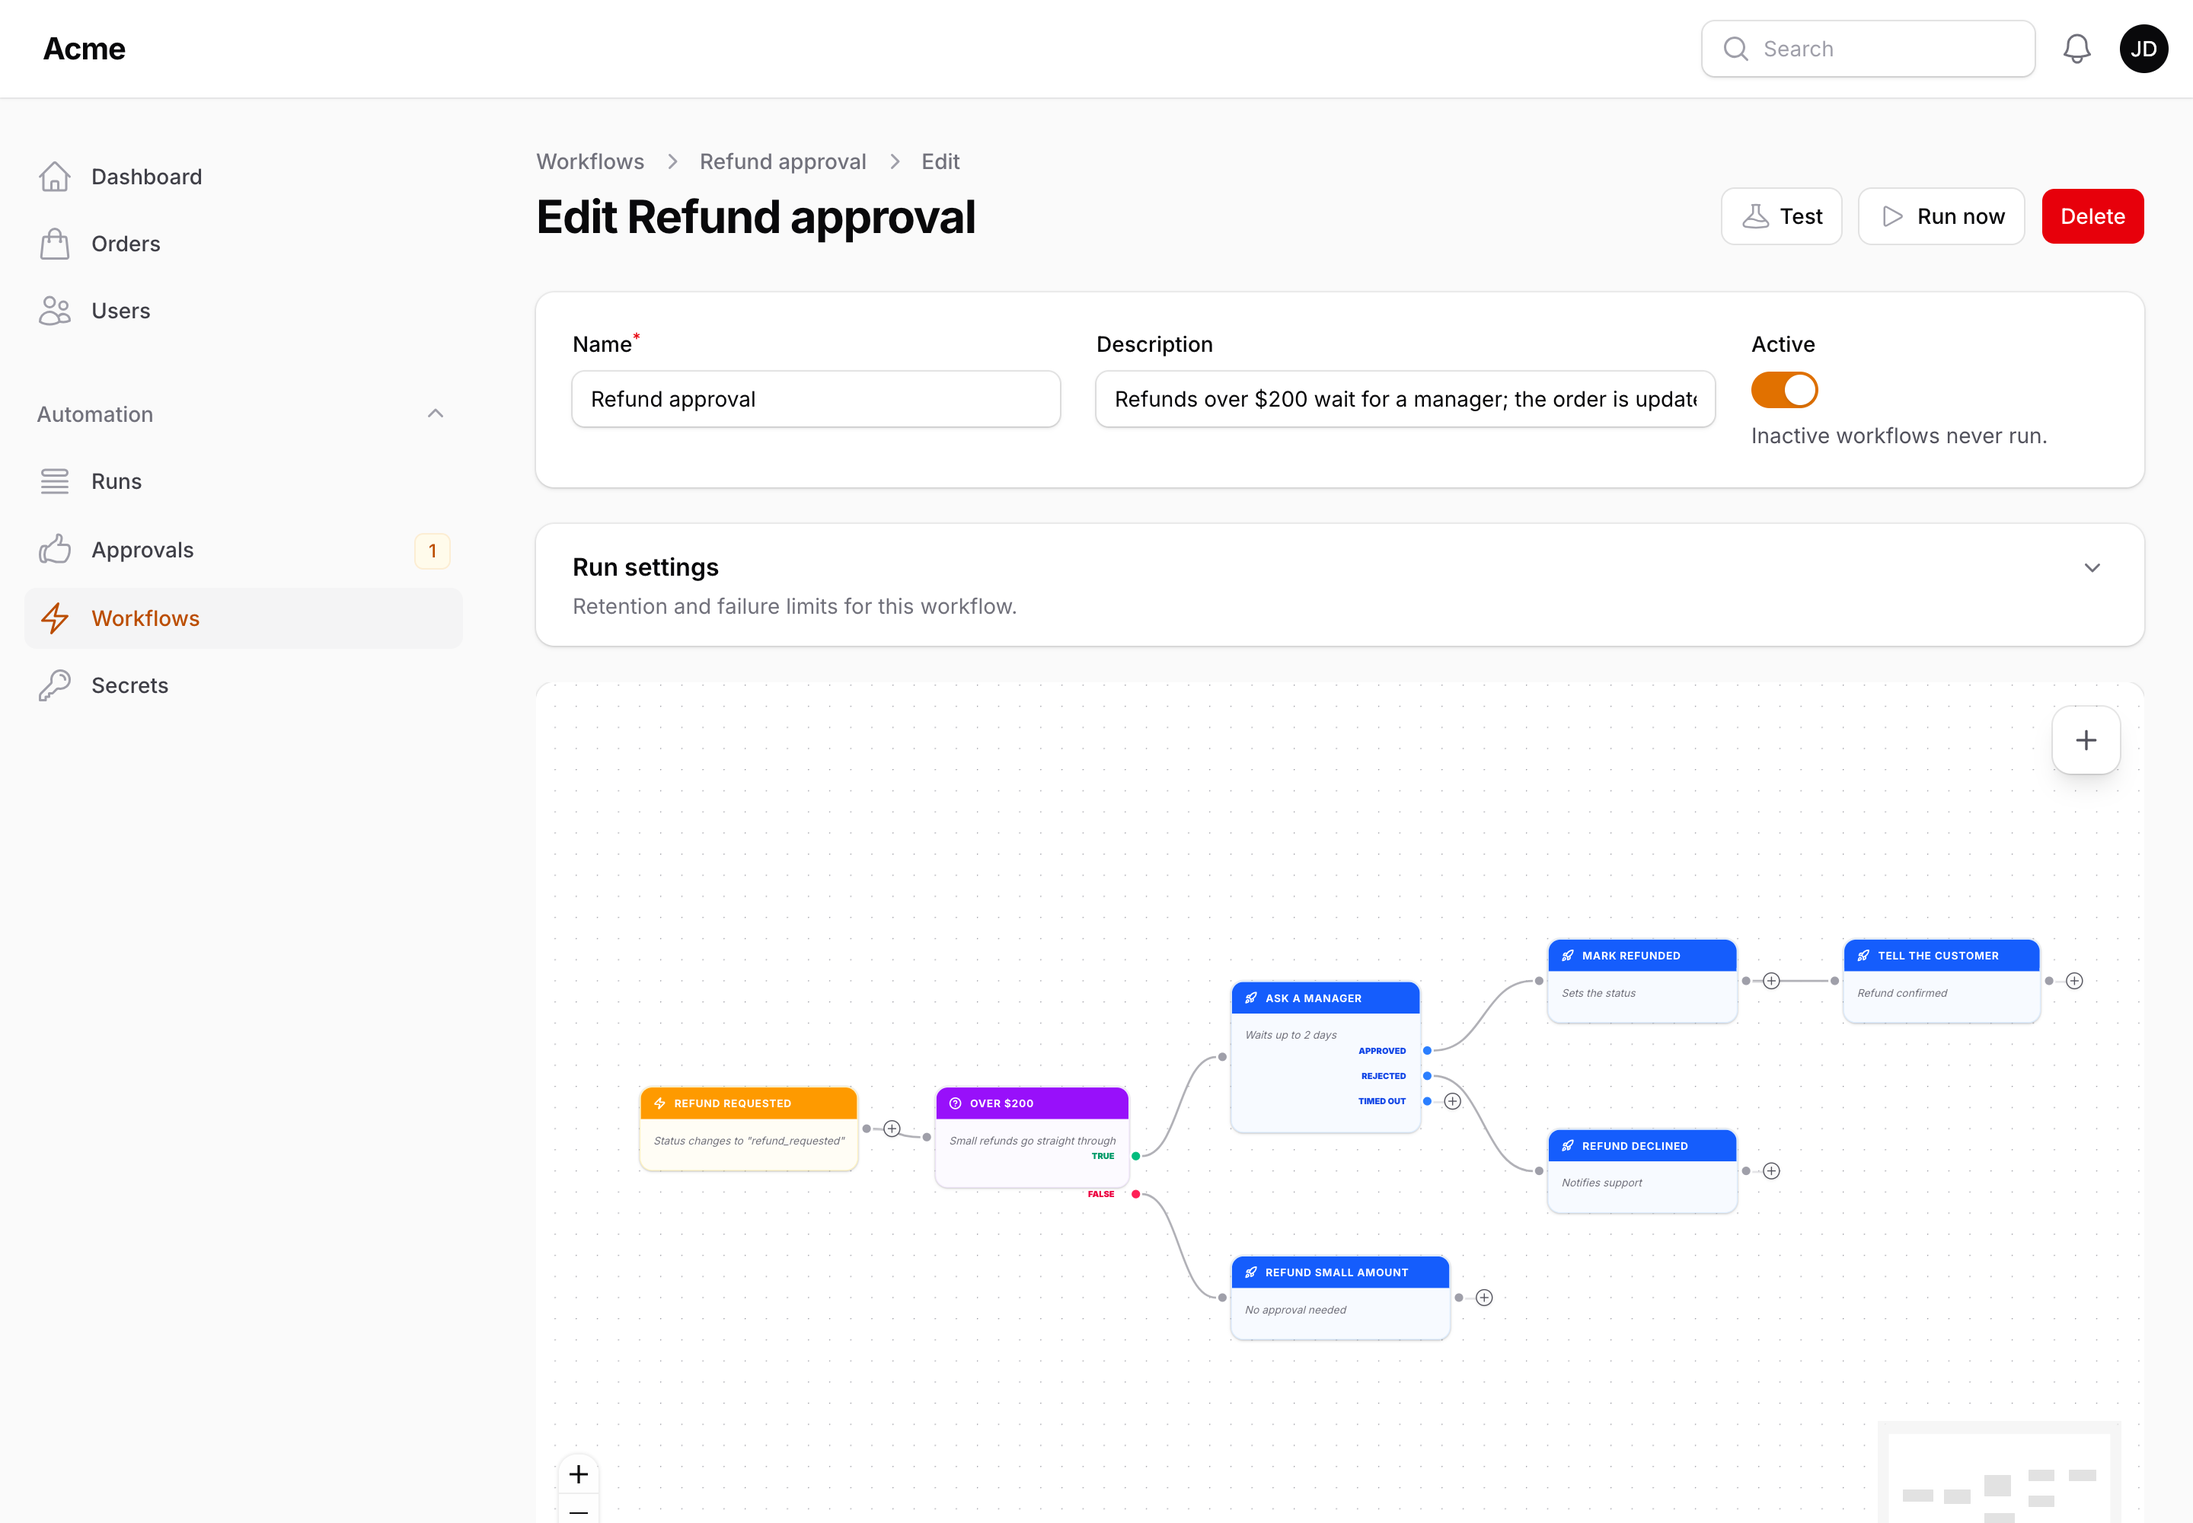
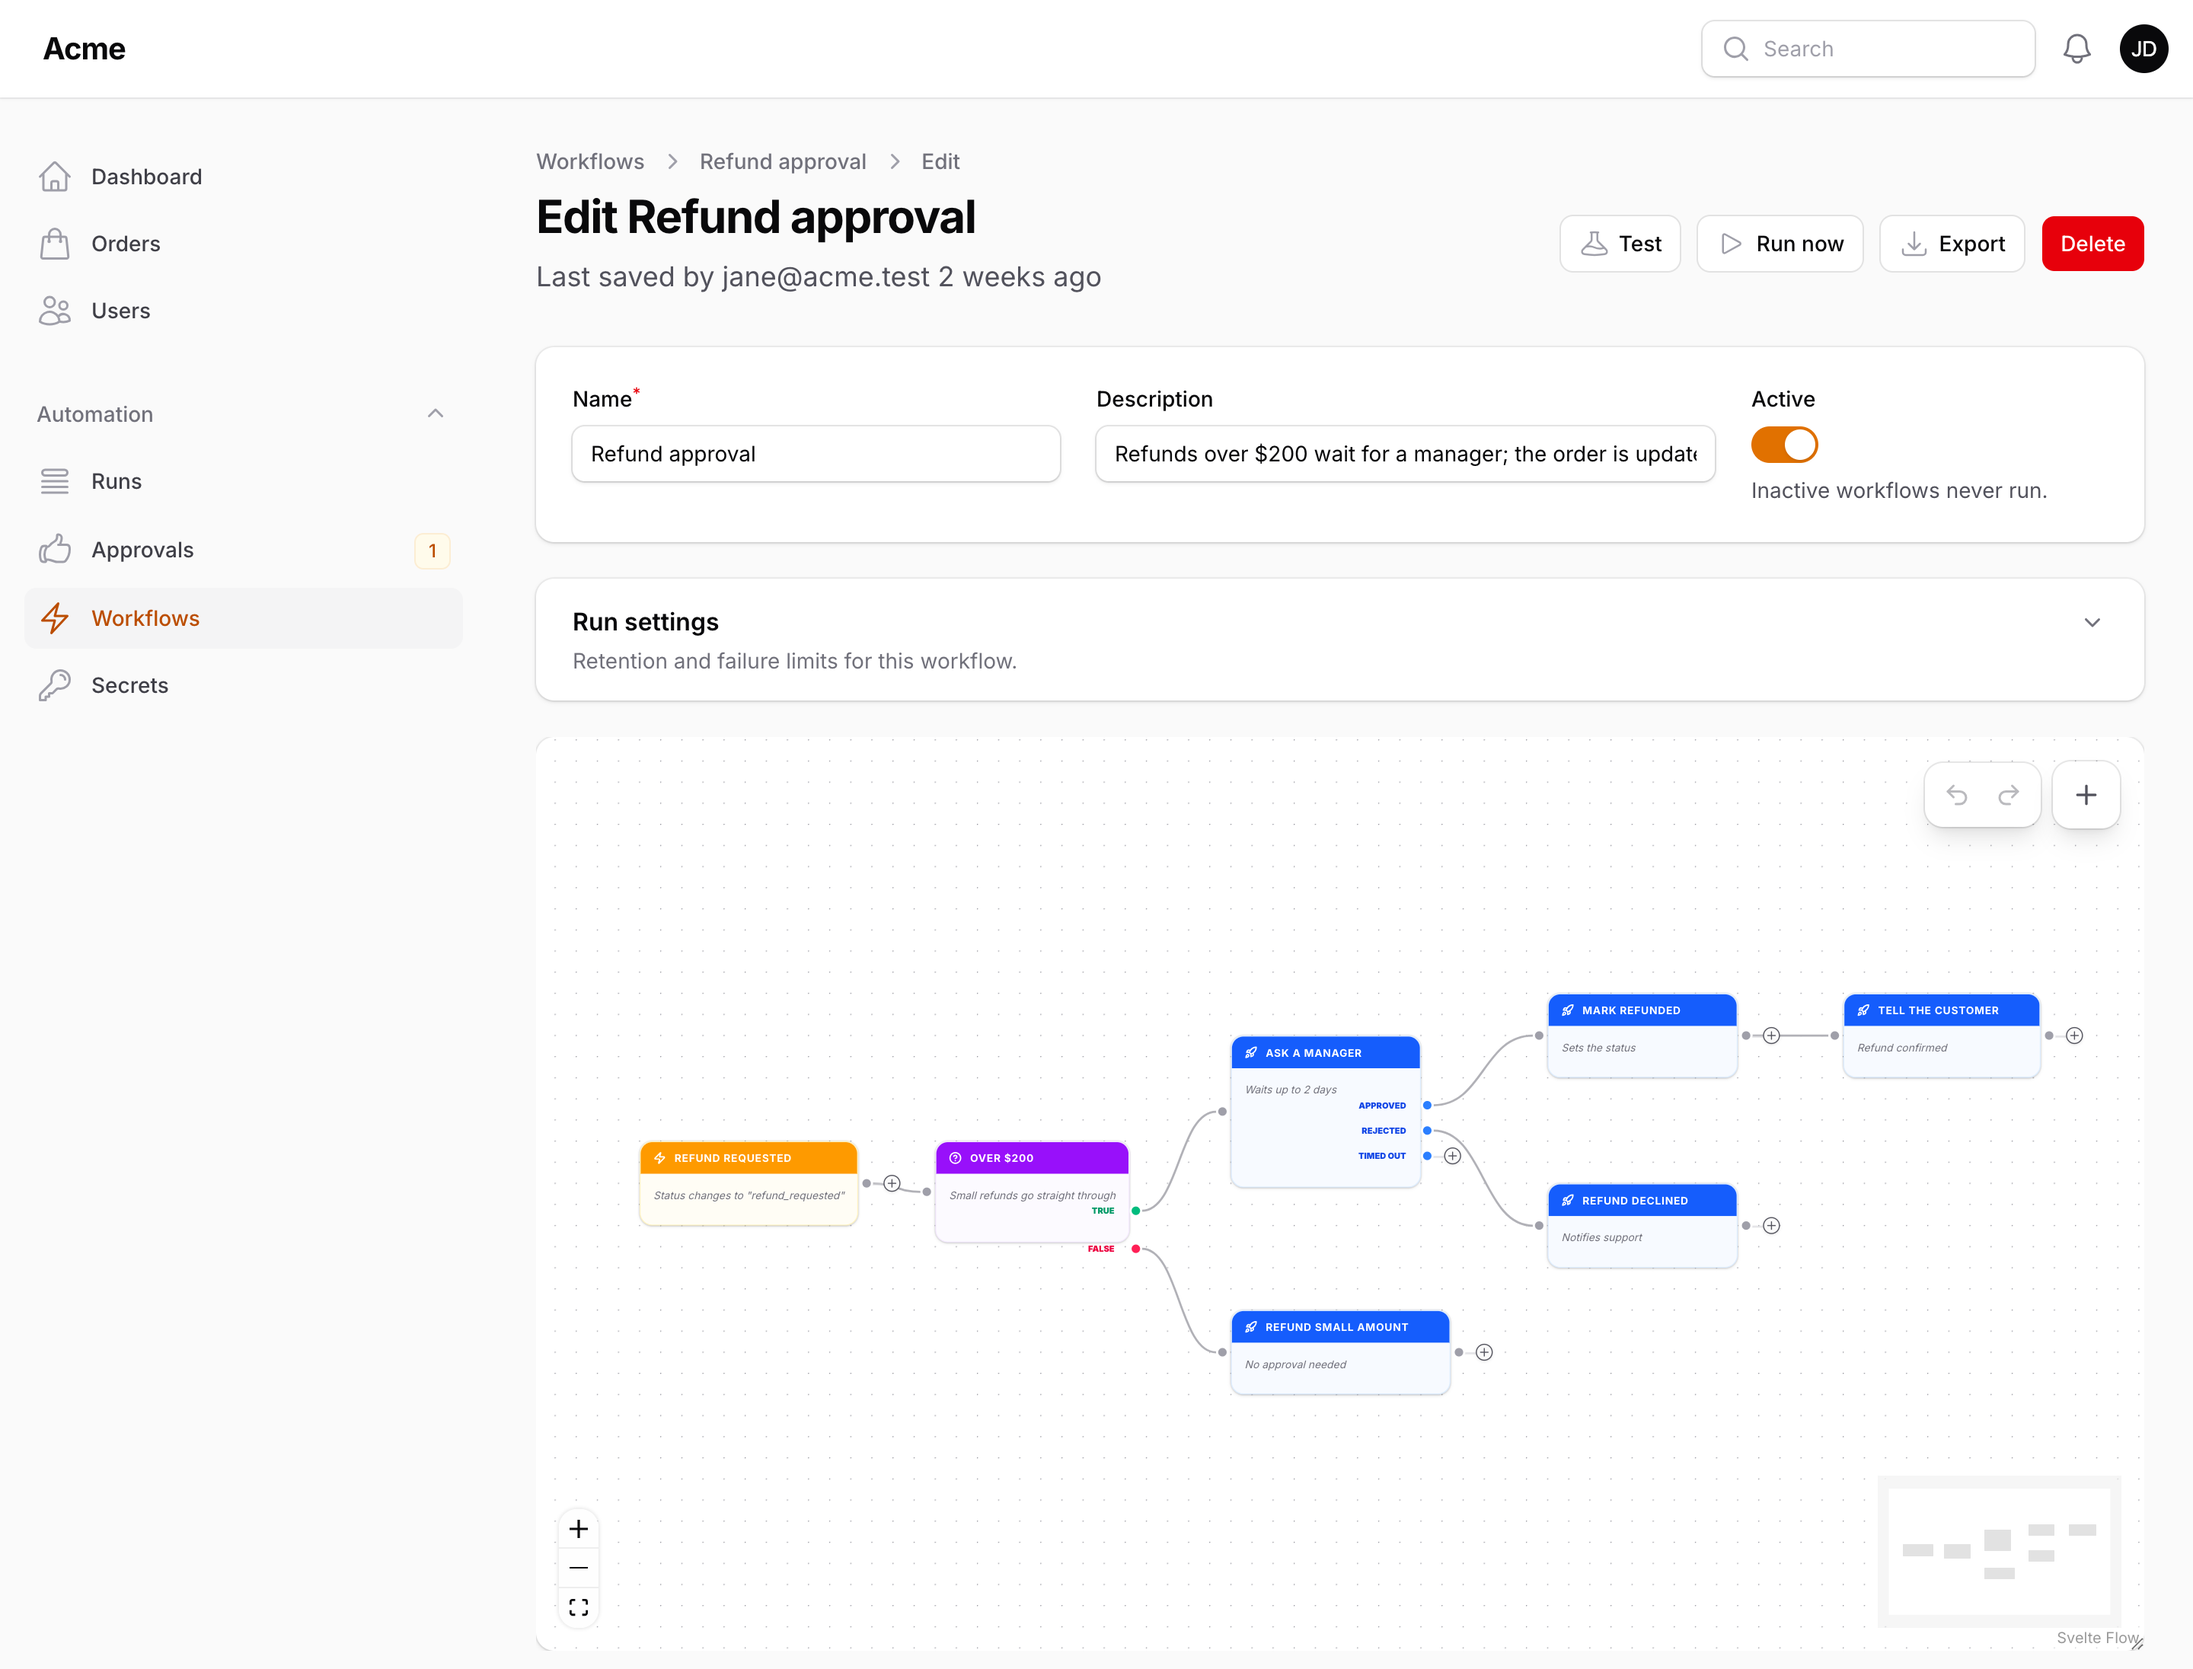
docs: screenshots for templates, the context menu, problem badges, Send to Zapier and Slowest workflows; upgrading note
Recaptured every screenshot from the demo after 1.2's changes (the Last saved
by line, undo/redo buttons, Export, the Runs chart) and added five new ones,
embedded on the pages that describe the features. Installation gets an
Upgrading note: publish the migrations again and migrate, since the audit
columns come as a guarded add_* migration.

diff --git a/docs/building-workflows.md b/docs/building-workflows.md
@@ -45,6 +45,8 @@ The slide-over is a Filament form:
 
 Click a node to select it; **Shift + drag** on the background draws a selection box, **Cmd / Ctrl + click** adds a node to the selection, and **Cmd / Ctrl + A** selects everything. Right-click a node for **Settings** (a single node), **Copy**, **Duplicate** and **Delete**; when the node is part of a selection, the menu acts on the whole selection and says so ("Delete 3 nodes"). Right-click the background for **Add node**, **Paste** and **Select all**. The menu can be driven from the keyboard: **Shift + F10** or the Menu key opens it for the selected node, the arrow keys move, **Enter** activates, **Escape** closes.
 
+![The right-click menu on a node: Settings, Copy, Duplicate, Delete](https://raw.githubusercontent.com/packstub/filament-flow/main/docs/images/context-menu.png)
+
 A duplicate keeps the label, description and settings, is placed slightly offset from the original, and keeps the edges between the duplicated nodes; nothing connects it to the rest of the graph. Copy and paste (**Cmd / Ctrl + C**, **Cmd / Ctrl + V**) do the same through a clipboard that lives in the page, so a selection can be pasted several times; **Cmd / Ctrl + D** duplicates the selection in one step.
 
 ## Undo and redo
@@ -58,6 +60,8 @@ The canvas is a form field; the usual **Save** (or **Create**) button of the pag
 Only active workflows run. New workflows start inactive, and a copy made with the table's **Replicate** action is inactive too, so you can finish a draft safely before switching it on. A copy gets its own webhook tokens, so it never answers to the original's URL.
 
 Saving an **active** workflow checks the definition first and refuses it with a message per problem: no trigger node, a node nothing leads to, or a required setting left empty (a node dropped on the canvas whose settings were never opened). The nodes concerned get a red badge on the canvas; hover it for the messages. The badge disappears when the node is edited or connected, and every badge clears when the next save passes. Inactive drafts are only checked for nodes whose class is no longer registered.
+
+![A refused save: the trigger without a model carries a red badge and the message sits under the canvas](https://raw.githubusercontent.com/packstub/filament-flow/main/docs/images/canvas-problems.png)
 
 When a workflow is saved, its trigger nodes are mirrored into the `flow_workflow_triggers` table. That is how the dispatcher finds candidate workflows for an incoming event with one indexed query — you never edit that table yourself.
 

diff --git a/docs/runs.md b/docs/runs.md
@@ -111,6 +111,8 @@ Besides the Runs tab under each workflow, the **Runs** page (next to Workflows i
 
 Above the table: four stats (runs today, failed today, runs waiting, the 7-day success rate) and a **Runs per day** chart of succeeded and failed runs over the last 7, 14 or 30 days. Below it, **Slowest workflows** lists the five workflows whose runs took longest in the last 7 days, with the run count, the average duration (the sum of a run's step timings) and the failure rate. Test runs are left out of all of them, and in a panel with tenancy they cover the current tenant's runs. The widgets are `Packstub\Flow\Filament\Widgets\RunsOverview`, `RunsChart` and `SlowestWorkflows`; they can be placed on a dashboard like any Filament widget, and a subclass of the page can override `getHeaderWidgets()` / `getFooterWidgets()` to change the set.
 
+![The Slowest workflows widget under the Runs table](https://raw.githubusercontent.com/packstub/filament-flow/main/docs/images/runs-slowest.png)
+
 Steps are stored one row per step in the `flow_workflow_steps` table (`WorkflowStep` model; `$run->steps` returns them as arrays, `$run->steps()` as the relationship) rather than in a JSON column, so a run with hundreds of steps costs one insert per step and the Runs page can count and filter them.
 
 ## Versions

diff --git a/docs/installation.md b/docs/installation.md
@@ -27,6 +27,17 @@ The migration creates seven tables: `flow_workflows`, `flow_workflow_triggers`, 
 > [!NOTE]
 > The table names come from `tables` in the config file. If you want different names, change them **before** migrating — see [Configuration](configuration.md#tables-and-models).
 
+### Upgrading
+
+A new minor may add columns; it never renames or drops one. The additions ship as their own guarded migrations, so an existing install publishes and runs whatever is new:
+
+```bash
+php artisan vendor:publish --tag="packstub-flow-migrations"
+php artisan migrate
+```
+
+Only files you do not have yet are copied. 1.2 adds `add_audit_columns_to_flow_workflows` (`created_by` / `updated_by`); the [changelog](https://github.com/packstub/filament-flow/blob/main/CHANGELOG.md) lists the migration of every release.
+
 ## 2. Prepare your models
 
 Add the `HasWorkflows` trait to every model that should be able to start a workflow. It fires the **Record created**, **Record updated** and **Record deleted** triggers from the model's own events, and the model is listed under "Record type" in those triggers' settings.

diff --git a/README.md b/README.md
@@ -88,7 +88,11 @@ use Packstub\Flow\Filament\Forms\Components\FlowBuilder;
 FlowBuilder::make('definition')->minHeight('70vh')
 ```
 
-Read more: [Building workflows](https://packstub.dev/docs/filament-flow/building-workflows).
+Not sure where to start? **New from template** on the Workflows page offers a welcome series, a high-value order alert, dunning reminders, an SLA escalation and an approval flow, ready to adapt; **Export** and **Import** move a workflow between panels as a JSON file.
+
+![The template picker on the Workflows page](https://raw.githubusercontent.com/packstub/filament-flow/main/docs/images/templates.png)
+
+Read more: [Building workflows](https://packstub.dev/docs/filament-flow/building-workflows), [Templates, import and export](https://packstub.dev/docs/filament-flow/templates).
 
 ## Triggers
 

diff --git a/docs/actions.md b/docs/actions.md
@@ -123,6 +123,8 @@ Destinations are checked before the request is sent: private and reserved addres
 
 Hands the run to an automation platform: Filament Flow is the in-app half (it knows your records, your users and your panel), Zapier, Make or n8n is the integration half (thousands of apps, no code). The action is an HTTP POST with a JSON body and an HMAC-SHA256 signature, so any webhook receiver works.
 
+![The settings of a Send to Zapier node: platform, webhook URL and signing secret from the secrets store](https://raw.githubusercontent.com/packstub/filament-flow/main/docs/images/send-to-automation.png)
+
 | Setting | |
 | --- | --- |
 | Platform | Zapier (Catch Hook), Make (Custom webhook), n8n (Webhook node) or any receiver; only the hints change |

diff --git a/docs/templates.md b/docs/templates.md
@@ -4,6 +4,8 @@ A workflow is data, so it can travel: start one from a template, download one as
 
 ## Templates
 
+![The template picker on the Workflows page](https://raw.githubusercontent.com/packstub/filament-flow/main/docs/images/templates.png)
+
 **New from template** on the Workflows page lists ready-made workflows by area. Pick one, give it a name, and it opens on the canvas. Nodes that need a choice from you carry a note in their description — the record type of a trigger, the agents of a round-robin assignment — and the workflow cannot be switched on until they are filled, exactly like any other incomplete draft (see [Building workflows](building-workflows.md#saving)).
 
 Built in:
